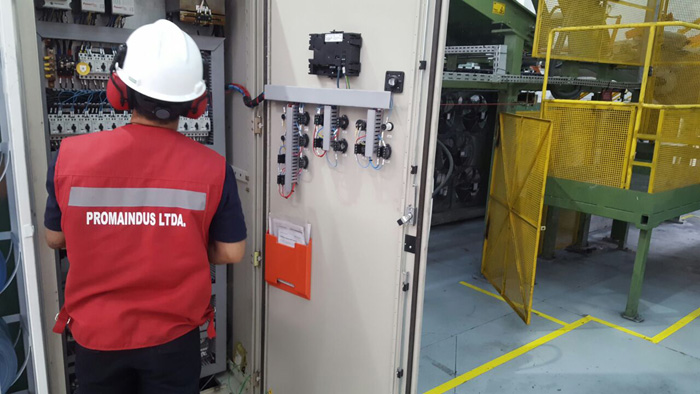
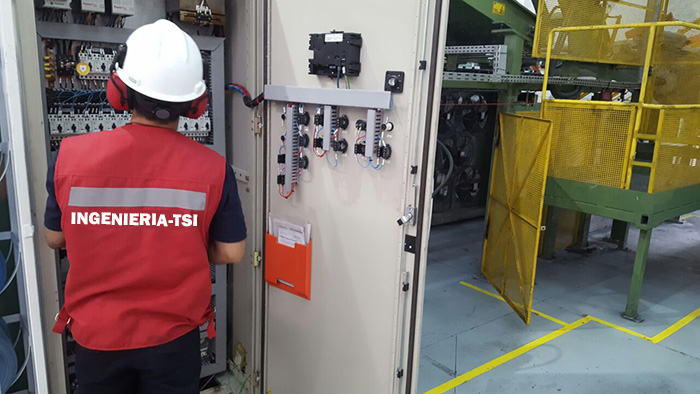
Se repara contacto y foto con nombre de la empresa.

Changed region(s): [[0.09, 0.5178, 0.3, 0.5787]]

diff --git a/index.html b/index.html
@@ -195,64 +195,55 @@
 
                 <div class="col-md-12">
                     <h2 class="section-heading">Contacto</h2>
-                    <p class="text-muted">Ubicación y Formulario de Contacto</p>
+                    <!-- <p class="text-muted">Ubicación y Formulario de Contacto</p> -->
                 </div>
 
-                <div class="col-md-7">
-                    <iframe width="100%" height="400px" frameborder="0" scrolling="no" marginheight="0" marginwidth="0" src="https://www.google.com/maps/embed?pb=!1m18!1m12!1m3!1d57590.01904339818!2d-70.75142602552636!3d-34.181056351384186!2m3!1f0!2f0!3f0!3m2!1i1024!2i768!4f13.1!3m3!1m2!1s0x9663434a5614e07d%3A0x14593b7f48c1fc88!2sVilla+Santa+Blanca!5e0!3m2!1ses!2scl!4v1510345399763"></iframe>
+                <div class="col-md-7" id="for-contacto">
+                    <!-- <iframe width="100%" height="400px" frameborder="0" scrolling="no" marginheight="0" marginwidth="0" src="https://www.google.com/maps/embed?pb=!1m18!1m12!1m3!1d57590.01904339818!2d-70.75142602552636!3d-34.181056351384186!2m3!1f0!2f0!3f0!3m2!1i1024!2i768!4f13.1!3m3!1m2!1s0x9663434a5614e07d%3A0x14593b7f48c1fc88!2sVilla+Santa+Blanca!5e0!3m2!1ses!2scl!4v1510345399763"></iframe> -->
+                    <h3 class="section-heading">Formulario de Contacto</h3>
+
+                    <form name="sentMessage" id="contactForm" novalidate>
+                        <div class="control-group form-group">
+                            <div class="controls">
+                                <label>Nombre y Apellido:</label>
+                                <input type="text" class="form-control" id="name" placeholder="Nombre Apellidos" required data-validation-required-message="Por favor ingresar algun nombre y apellido.">
+                                <p class="help-block"></p>
+                            </div>
+                        </div>
+                        <div class="control-group form-group">
+                            <div class="controls">
+                                <label>Número Telefonico:</label>
+                                <input type="tel" class="form-control" id="phone" placeholder="Telefono o celular" required data-validation-required-message="Por favor ingresar un numero valido">
+                            </div>
+                        </div>
+                        <div class="control-group form-group">
+                            <div class="controls">
+                                <label>Correo:</label>
+                                <input type="email" class="form-control" id="email" placeholder="Correo correo@email.cl" required data-validation-required-message="Por favor ingresar correo valido.">
+                            </div>
+                        </div>
+                        <div class="control-group form-group">
+                            <div class="controls">
+                                <label>Mensaje o Cotización:</label>
+                                <textarea rows="10" cols="100" class="form-control" id="message" placeholder="Mensaje o consulta" required data-validation-required-message="Por favor ingresar un numero valido" maxlength="999" style="resize:none"></textarea>
+                            </div>
+                        </div>
+                        <div id="success"></div>
+                        <!-- For success/fail messages -->
+                        <button type="submit" class="btn btn-primary">Enviar Mensaje</button>
+                    </form>
+
+
                 </div>
 
-                <div class="col-md-5">
+                <div class="col-md-5" id="detalle">
                     <h3 class="section-heading">Detalle del Contacto</h3>
-                    <p class="text-muted">
-                        Lago del Toro A #1366 Villa Santa Blanca
-                        <br>El Monte, Santiago Chile
-                        <br>
-                    </p>
-                    <p>Telefonos: +56 9 74567890</p>
-                    <p>Email: <a href="#">contacto@ingenieria-tsi.cl</a></p>
-                    <p>Horarios: Lunes - Viernes: 8:30 AM a 18:30 PM</p>
+                    <br>
+
+                    <p><strong>Telefonos:</strong> +56 9 5719 4006</p>
+                    <p><strong>Email:</strong> <a href="#">contacto@ingenieria-tsi.cl</a></p>
+                    <p><strong>Horarios:</strong> Lunes - Viernes: 8:30 AM a 18:30 PM</p>
                 </div>
-
-                <br><br>
-                <div class="col-md-12" id="for-contacto">
-                    <h2 class="section-heading">Formulario de Contacto</h2>
-                    <div class="col-lg-8 mb-4">
-                        <form name="sentMessage" id="contactForm" novalidate>
-                            <div class="control-group form-group">
-                                <div class="controls">
-                                    <label>Nombre y Apellido:</label>
-                                    <input type="text" class="form-control" id="name" placeholder="Nombre Apellidos" required data-validation-required-message="Por favor ingresar algun nombre y apellido.">
-                                    <p class="help-block"></p>
-                                </div>
-                            </div>
-                            <div class="control-group form-group">
-                                <div class="controls">
-                                    <label>Número Telefonico:</label>
-                                    <input type="tel" class="form-control" id="phone" placeholder="Telefono o celular" required data-validation-required-message="Por favor ingresar un numero valido">
-                                </div>
-                            </div>
-                            <div class="control-group form-group">
-                                <div class="controls">
-                                    <label>Correo:</label>
-                                    <input type="email" class="form-control" id="email" placeholder="Correo correo@email.cl" required data-validation-required-message="Por favor ingresar correo valido.">
-                                </div>
-                            </div>
-                            <div class="control-group form-group">
-                                <div class="controls">
-                                    <label>Mensaje o Cotización:</label>
-                                    <textarea rows="10" cols="100" class="form-control" id="message" placeholder="Mensaje o consulta" required data-validation-required-message="Por favor ingresar un numero valido" maxlength="999" style="resize:none"></textarea>
-                                </div>
-                            </div>
-                            <div id="success"></div>
-                            <!-- For success/fail messages -->
-                            <button type="submit" class="btn btn-primary">Enviar Mensaje</button>
-                        </form>
-                    </div>
-                </div>
-
-
-
             </div>
         </div>
     </section>

diff --git a/css/modern-business.css b/css/modern-business.css
@@ -38,6 +38,11 @@ body {
     padding-bottom: 50px;
 }
 
+#detalle {
+    padding-top: 40px;
+    padding-bottom: 50px;
+}
+
 .navbar .navbar-brand {
     font-family: 'Roboto Mono', monospace;
     font-style: thin;
@@ -64,7 +69,7 @@ header {
     background-size: cover;
     -o-background-size: cover;
     text-align: center;
-    color: rgb(37, 41, 44)
+    color: rgb(18, 108, 177)
 }
 
 header .intro-text {
